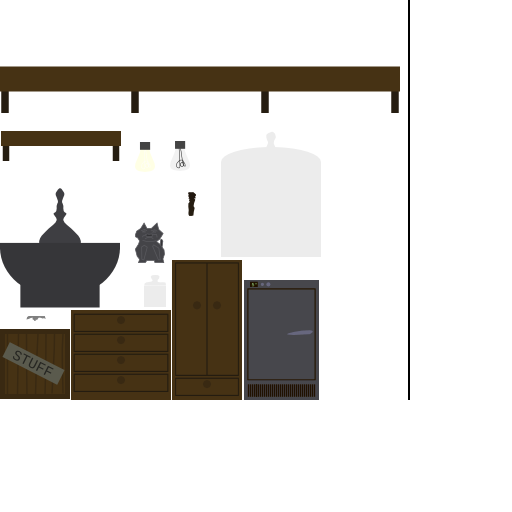
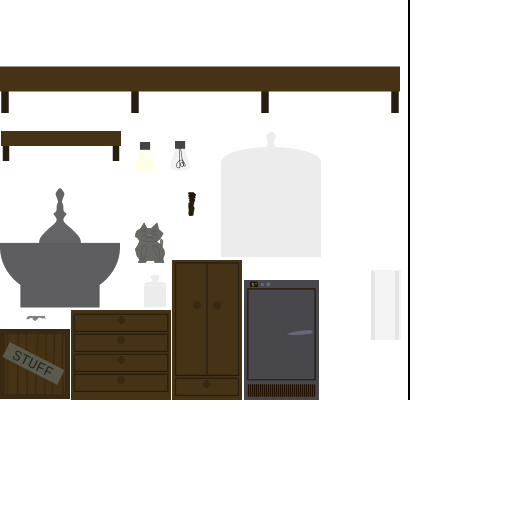
Fixes. Patent images.

Changed region(s): [[0.0, 0.375, 0.3438, 0.625], [0.7188, 0.5312, 0.7812, 0.6562]]

diff --git a/src/com/zarkonnen/FurnitureStore.java b/src/com/zarkonnen/FurnitureStore.java
@@ -21,15 +21,15 @@ public enum FurnitureStore {
 			return new Fridge(l, x, y, w, h);
 		}
 	},
-	TABLE(2, Location.FLOOR, 180, 90, 0) {
+	TABLE(3, Location.FLOOR, 180, 90, 0) {
 		@Override
 		public void assemble(Level l, int x, int y) {
-			l.walls.add(new Wall(x, y, 180, 20));
-			l.walls.add(new Wall(x, y + 20, 20, 70));
-			l.walls.add(new Wall(x, y + 160, 20, 70));
+			l.walls.add(new Wall(x, y, 180, 20).tint(DEFAULT));
+			l.walls.add(new Wall(x, y + 20, 20, 70).tint(DEFAULT));
+			l.walls.add(new Wall(x + 160, y + 20, 20, 70).tint(DEFAULT));
 		}
 	},
-	CANDLE_TABLE(3, Location.FLOOR, 180, 130, 40) {
+	CANDLE_TABLE(4, Location.FLOOR, 180, 130, 40) {
 		@Override
 		public void assemble(Level l, int x, int y) {
 			TABLE.assemble(l, x, y + 40);
@@ -86,7 +86,7 @@ public enum FurnitureStore {
 			l.walls.add(new EvilBook(x + l.r.nextInt(80) + 10, y + 100, l));
 		}
 	},
-	DOGSHELF(4, Location.WALL, 120, 105, 80) {
+	DOGSHELF(2, Location.WALL, 120, 105, 80) {
 		@Override
 		public void assemble(Level l, int x, int y) {
 			SHELF.assemble(l, x, y + 80);

diff --git a/src/com/zarkonnen/WallDecoType.java b/src/com/zarkonnen/WallDecoType.java
@@ -52,10 +52,10 @@ public enum WallDecoType {
 	PATENT(5, null, 43, 70) {
 		@Override
 		public void draw(Draw d, WallDeco wd, int scrollX, int scrollY, Level l) {
-			d.rect(PAPER_C, scrollX + wd.x, scrollY + wd.y, w, h);
-			//d.blit(PatentBlaster.paper, PAPER_C, scrollX + wd.x, scrollY + wd.y, w, h);
+			//d.rect(PAPER_C, scrollX + wd.x, scrollY + wd.y, w, h);
+			d.blit(PAPER, PAPER_C, scrollX + wd.x, scrollY + wd.y);
 			if (wd.img != null) {
-				d.blit(wd.img, scrollX + wd.x + 5, scrollY + wd.y + 10, w - 10, w - 10);
+				d.blit(wd.img, PAPER_C, scrollX + wd.x + 5, scrollY + wd.y + 17, w - 10, w - 10);
 			}
 			//d.text(wd.text, PatentBlaster.SMOUNT, scrollX + wd.x + 5, scrollY + wd.y + 5, w - 10);
 			
@@ -71,6 +71,7 @@ public enum WallDecoType {
 	public static final Clr PRINT_C = new Clr(60, 60, 55);
 	public static final Clr PAPER_C = new Clr(120, 120, 110);
 	public static final Clr WIRE_C = new Clr(20, 20, 20, 80);
+	public static final Img PAPER = PatentBlaster.NONPAT_IMGS.get("paper");
 	
 	public final int p;
 	public final Img img;

diff --git a/src/com/zarkonnen/PatentBlaster.java b/src/com/zarkonnen/PatentBlaster.java
@@ -107,6 +107,7 @@ public class PatentBlaster implements Game, MusicCallback {
 	public static final HashMap<String, Img> ITEM_IMGS;
 	public static final HashMap<String, Img> LARGE_ITEM_IMGS;
 	public static final HashMap<String, Img> FURN_IMGS;
+	public static final HashMap<String, Img> NONPAT_IMGS;
 	
 	public static Img[] drawingImgs = new Img[IMG_NAMES.length];
 	public static Img[] drawingImgsLarge = new Img[IMG_NAMES.length];
@@ -167,6 +168,17 @@ public class PatentBlaster implements Game, MusicCallback {
 			System.exit(1);
 		}
 		FURN_IMGS = fis;
+		
+		HashMap<String, Img> npis = null;
+		try {
+			InputStream is = PatentBlaster.class.getResourceAsStream("images/nonpats.txt");
+			npis = Img.loadMap(is);
+			is.close();
+		} catch (Exception e) {
+			e.printStackTrace(ERR_STREAM);
+			System.exit(1);
+		}
+		NONPAT_IMGS = npis;
 		
 		for (int i = 0; i < IMG_NAMES.length; i++) {
 			drawingImgs[i] = new Img("drawings/" + IMG_NAMES[i] + "_drawing");

diff --git a/src/com/zarkonnen/Book.java b/src/com/zarkonnen/Book.java
@@ -20,11 +20,13 @@ public class Book extends EmitterWall {
 		weapon.element = Element.FIRE;
 		weapon.dmg *= 0.01;
 		weapon.shotSize = 2;
+		img = PatentBlaster.FURN_IMGS.get("book");
 	}
 	
 	@Override
 	public void draw(Draw d, Level l, double scrollX, double scrollY) {
-		super.draw(d, l, scrollX, scrollY);
+		//super.draw(d, l, scrollX, scrollY);
+		d.blit(img, tint, x + scrollX, y + scrollY, w, h);
 		d.text(title, PatentBlaster.SMOUNT, x + 4 + scrollX, y + 2 + scrollY);
 	}
 	

diff --git a/src/com/zarkonnen/Wall.java b/src/com/zarkonnen/Wall.java
@@ -22,6 +22,8 @@ public class Wall extends Entity {
 	public boolean isFloor = false;
 	public int imgDelta;
 	
+	public Wall tint(Clr tint) { this.tint = tint; return this; }
+	
 	public void drawGlow(Draw d, Level l, double scrollX, double scrollY) {}
 	
 	public Wall floor() { isFloor = true; return this; }

diff --git a/src/com/zarkonnen/NonsensePatent.java b/src/com/zarkonnen/NonsensePatent.java
@@ -18,7 +18,7 @@ public enum NonsensePatent {
 	public final String text;
 
 	private NonsensePatent(Img img, String text) {
-		this.img = img;
+		this.img = PatentBlaster.NONPAT_IMGS.get(name());
 		this.text = text;
 	}
 }
